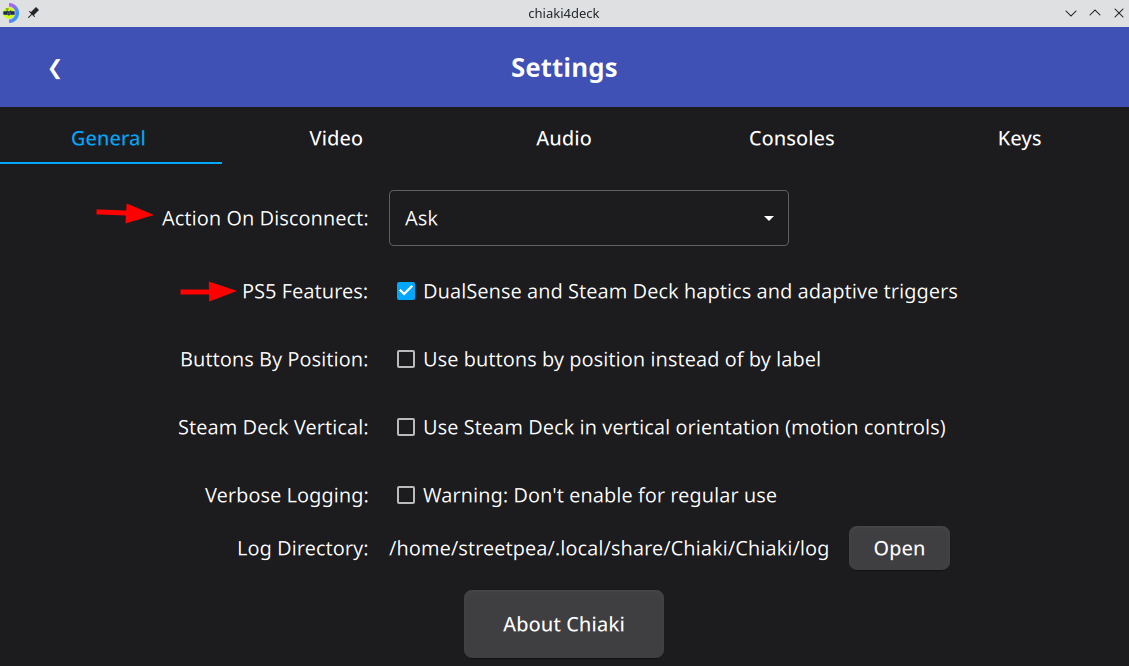
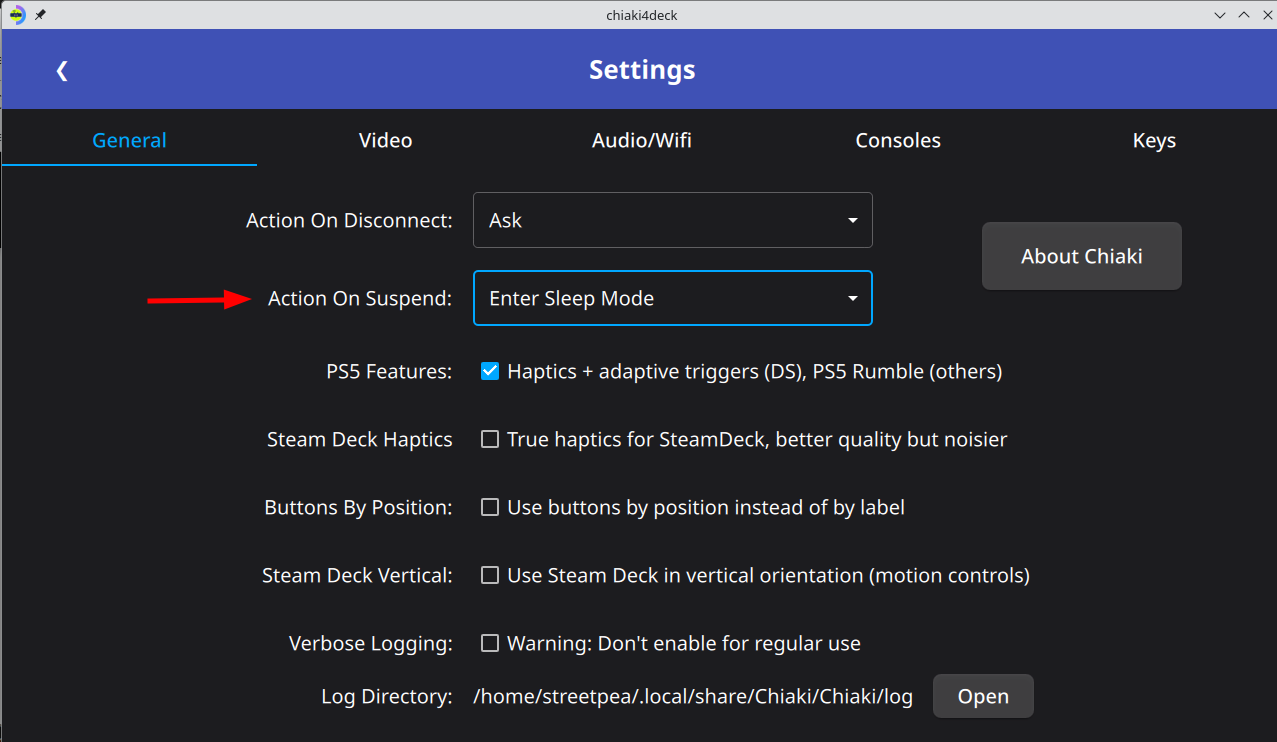
Only show speech processing and echo cancelling inputs if SPEEX used

diff --git a/gui/src/qml/SettingsDialog.qml b/gui/src/qml/SettingsDialog.qml
@@ -423,6 +423,7 @@ DialogView {
                     Label {
                         Layout.alignment: Qt.AlignRight
                         text: qsTr("Speech Processing:")
+                        visible: typeof Chiaki.settings.speechProcessing !== "undefined"
                     }
 
                     C.CheckBox {
@@ -430,12 +431,13 @@ DialogView {
                         text: qsTr("Noise suppression + echo cancellation")
                         checked: Chiaki.settings.speechProcessing
                         onToggled: Chiaki.settings.speechProcessing = !Chiaki.settings.speechProcessing
+                        visible: typeof Chiaki.settings.speechProcessing !== "undefined"
                     }
 
                     Label {
                         Layout.alignment: Qt.AlignRight
                         text: qsTr("Noise To Suppress:")
-                        visible: Chiaki.settings.speechProcessing
+                        visible: if (typeof Chiaki.settings.speechProcessing !== "undefined") {Chiaki.settings.speechProcessing} else {false}
                     }
 
                     C.Slider {
@@ -443,7 +445,7 @@ DialogView {
                         from: 0
                         to: 60
                         stepSize: 1
-                        visible: Chiaki.settings.speechProcessing
+                        visible: if (typeof Chiaki.settings.speechProcessing !== "undefined") {Chiaki.settings.speechProcessing} else {false}
                         value: Chiaki.settings.noiseSuppressLevel
                         onMoved: Chiaki.settings.noiseSuppressLevel = value
 
@@ -460,7 +462,7 @@ DialogView {
                     Label {
                         Layout.alignment: Qt.AlignRight
                         text: qsTr("Echo To Suppress:")
-                        visible: Chiaki.settings.speechProcessing
+                        visible: if (typeof Chiaki.settings.speechProcessing !== "undefined") {Chiaki.settings.speechProcessing} else {false}
                     }
 
                     C.Slider {
@@ -469,7 +471,7 @@ DialogView {
                         to: 60
                         stepSize: 1
                         value: Chiaki.settings.echoSuppressLevel
-                        visible: Chiaki.settings.speechProcessing
+                        visible: if (typeof Chiaki.settings.speechProcessing !== "undefined") {Chiaki.settings.speechProcessing} else {false}
                         onMoved: Chiaki.settings.echoSuppressLevel = value
 
                         Label {

diff --git a/gui/include/qmlsettings.h b/gui/include/qmlsettings.h
@@ -16,9 +16,11 @@ class QmlSettings : public QObject
 #endif
     Q_PROPERTY(bool buttonsByPosition READ buttonsByPosition WRITE setButtonsByPosition NOTIFY buttonsByPositionChanged)
     Q_PROPERTY(bool startMicUnmuted READ startMicUnmuted WRITE setStartMicUnmuted NOTIFY startMicUnmutedChanged)
+#ifdef CHIAKI_GUI_ENABLE_SPEEX
     Q_PROPERTY(bool speechProcessing READ speechProcessing WRITE setSpeechProcessing NOTIFY speechProcessingChanged)
     Q_PROPERTY(int noiseSuppressLevel READ noiseSuppressLevel WRITE setNoiseSuppressLevel NOTIFY noiseSuppressLevelChanged)
     Q_PROPERTY(int echoSuppressLevel READ echoSuppressLevel WRITE setEchoSuppressLevel NOTIFY echoSuppressLevelChanged)
+#endif
     Q_PROPERTY(int fps READ fps WRITE setFps NOTIFY fpsChanged)
     Q_PROPERTY(int bitrate READ bitrate WRITE setBitrate NOTIFY bitrateChanged)
     Q_PROPERTY(int codec READ codec WRITE setCodec NOTIFY codecChanged)
@@ -69,6 +71,7 @@ public:
     bool startMicUnmuted() const;
     void setStartMicUnmuted(bool startMicUnmuted);
 
+#ifdef CHIAKI_GUI_ENABLE_SPEEX
     bool speechProcessing() const;
     void setSpeechProcessing(bool processing);
 
@@ -77,6 +80,7 @@ public:
 
     int echoSuppressLevel() const;
     void setEchoSuppressLevel(int level);
+#endif
 
     int fps() const;
     void setFps(int fps);
@@ -134,9 +138,11 @@ signals:
     void verticalDeckChanged();
     void steamDeckHapticsChanged();
 #endif
+#ifdef CHIAKI_GUI_ENABLE_SPEEX
     void speechProcessingChanged();
     void noiseSuppressLevelChanged();
     void echoSuppressLevelChanged();
+#endif
     void fpsChanged();
     void bitrateChanged();
     void codecChanged();

diff --git a/gui/src/qmlsettings.cpp b/gui/src/qmlsettings.cpp
@@ -124,6 +124,7 @@ void QmlSettings::setStartMicUnmuted(bool startMicUnmuted)
     emit startMicUnmutedChanged();
 }
 
+#if CHIAKI_GUI_ENABLE_SPEEX
 bool QmlSettings::speechProcessing() const
 {
     return settings->GetSpeechProcessingEnabled();
@@ -156,6 +157,7 @@ void QmlSettings::setEchoSuppressLevel(int level)
     settings->SetEchoSuppressLevel(level);
     emit echoSuppressLevelChanged();
 }
+#endif
 
 int QmlSettings::fps() const
 {

diff --git a/gui/src/settings.cpp b/gui/src/settings.cpp
@@ -291,7 +291,7 @@ void Settings::SetWifiDroppedNotif(unsigned int percent)
 
 bool Settings::GetSpeechProcessingEnabled() const
 {
-	return settings.value("settings/enable_speech_processing", true).toBool();
+	return settings.value("settings/enable_speech_processing", false).toBool();
 }
 
 int Settings::GetNoiseSuppressLevel() const